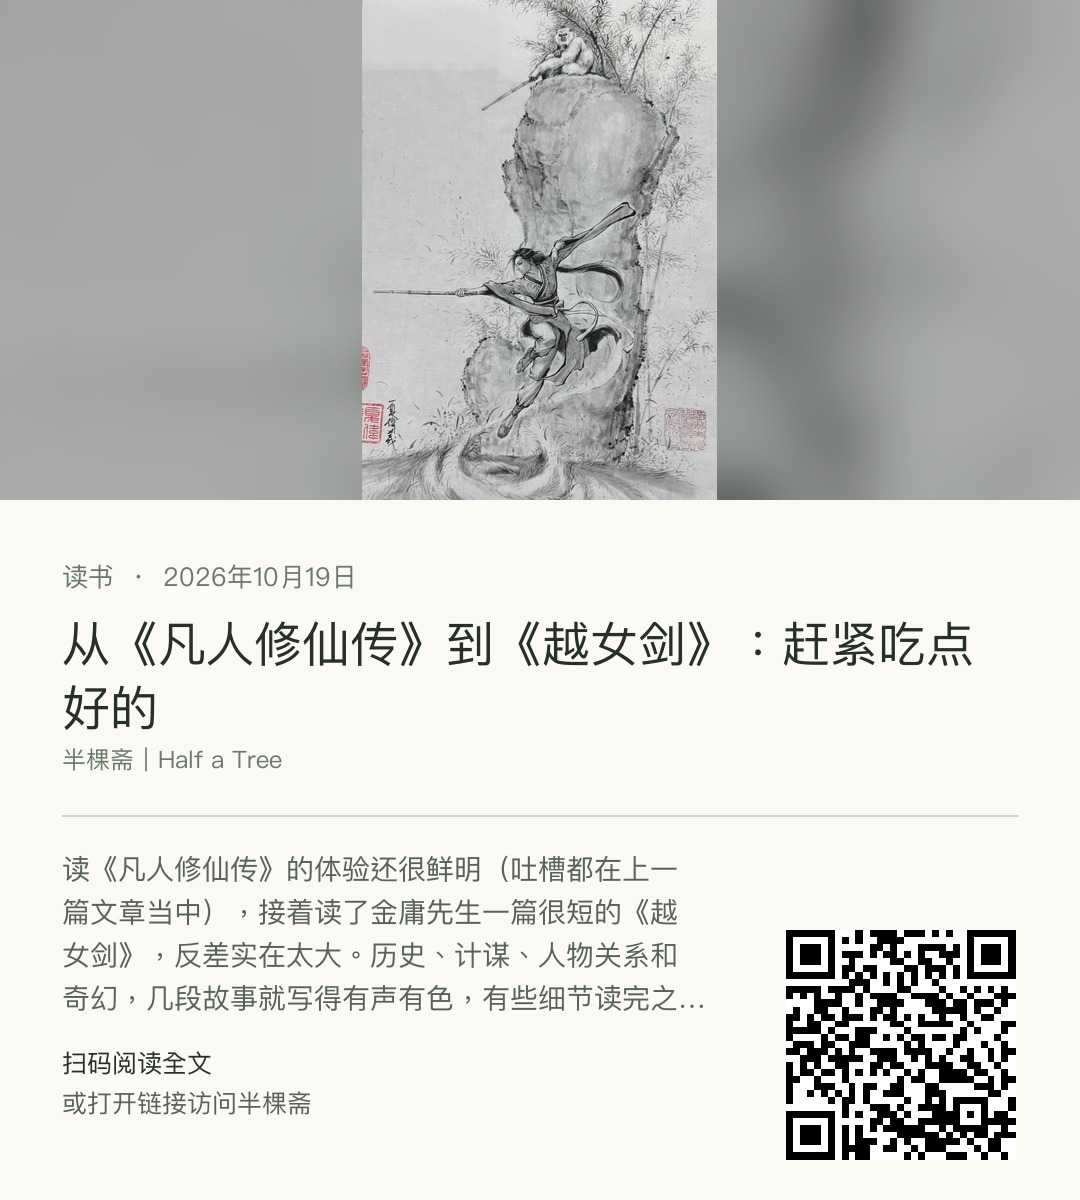
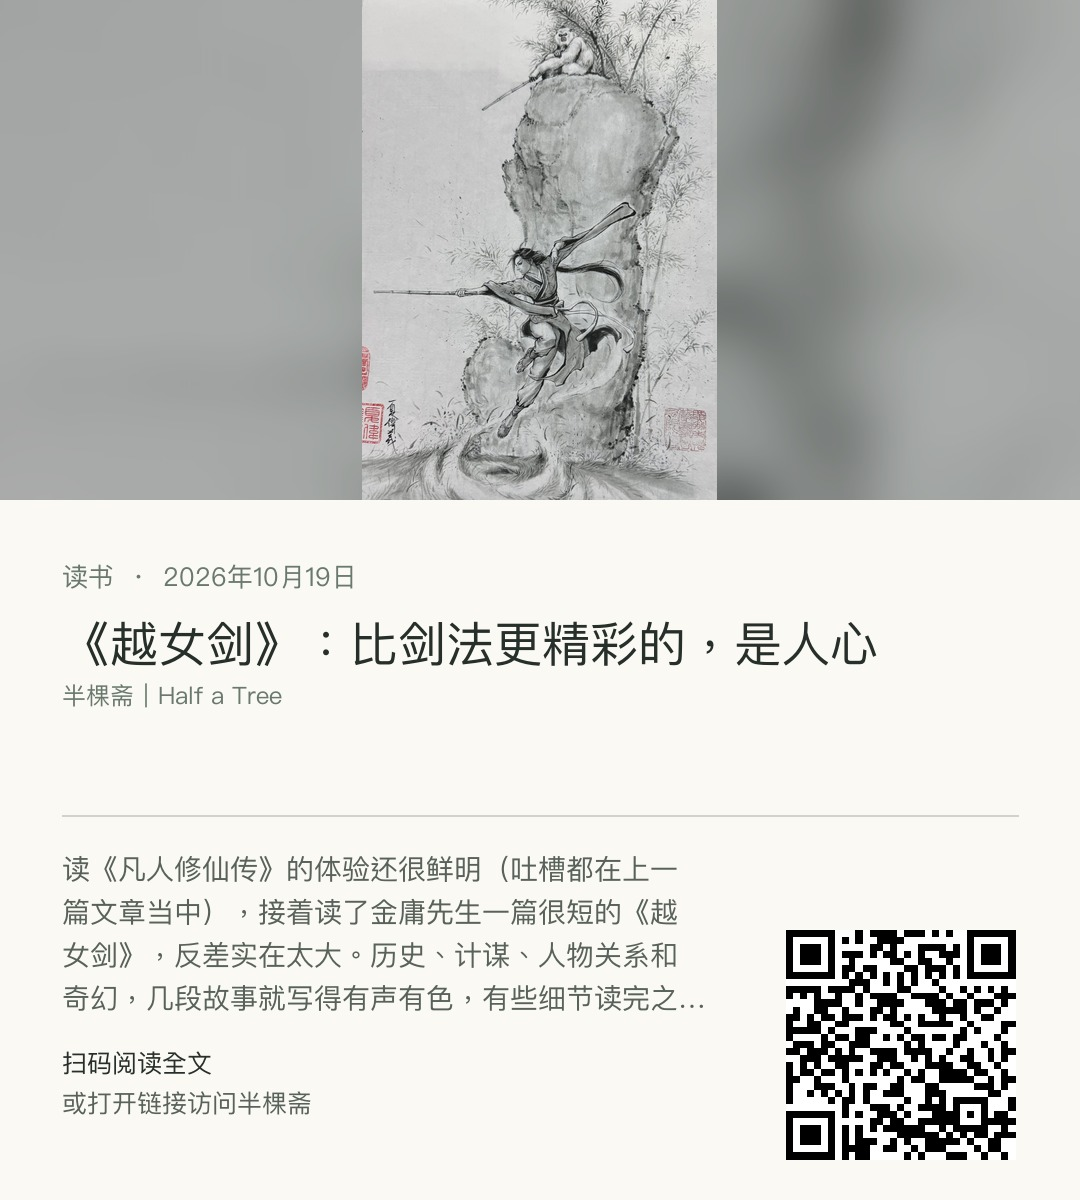
Update Yue Nu Jian article title

Changed region(s): [[0.0611, 0.4933, 0.9167, 0.6475], [0.1528, 0.6167, 0.275, 0.6475]]

diff --git a/articles/yue-nu-jian-review.html b/articles/yue-nu-jian-review.html
@@ -7,7 +7,7 @@
     <!-- 分享卡片元数据开始 -->
     <meta property="og:type" content="article" />
     <meta property="og:site_name" content="半棵斋｜Half a Tree" />
-    <meta property="og:title" content="从《凡人修仙传》到《越女剑》：赶紧吃点好的｜半棵斋" />
+    <meta property="og:title" content="《越女剑》：比剑法更精彩的，是人心｜半棵斋" />
     <meta property="og:description" content="读《凡人修仙传》的体验还很鲜明（吐槽都在上一篇文章当中），接着读了金庸先生一篇很短的《越女剑》，反差实在太大。历史、计谋、人物关系和奇幻，几段故事就写得有声有色，有些细节读完之后还会回头琢磨。金庸先生真是太会写了。" />
     <meta property="og:url" content="https://halfatree.page/articles/yue-nu-jian-review.html" />
     <meta property="og:image" content="https://halfatree.page/public/media/share/yue-nu-jian-review.jpg?v=pages-from-small-room-v3" />
@@ -15,12 +15,12 @@
     <meta property="og:image:width" content="1200" />
     <meta property="og:image:height" content="630" />
     <meta name="twitter:card" content="summary_large_image" />
-    <meta name="twitter:title" content="从《凡人修仙传》到《越女剑》：赶紧吃点好的｜半棵斋" />
+    <meta name="twitter:title" content="《越女剑》：比剑法更精彩的，是人心｜半棵斋" />
     <meta name="twitter:description" content="读《凡人修仙传》的体验还很鲜明（吐槽都在上一篇文章当中），接着读了金庸先生一篇很短的《越女剑》，反差实在太大。历史、计谋、人物关系和奇幻，几段故事就写得有声有色，有些细节读完之后还会回头琢磨。金庸先生真是太会写了。" />
     <meta name="twitter:image" content="https://halfatree.page/public/media/share/yue-nu-jian-review.jpg?v=pages-from-small-room-v3" />
     <!-- 分享卡片元数据结束 -->
     <link rel="canonical" href="https://halfatree.page/articles/yue-nu-jian-review.html" />
-    <title>从《凡人修仙传》到《越女剑》：赶紧吃点好的｜半棵斋</title>
+    <title>《越女剑》：比剑法更精彩的，是人心｜半棵斋</title>
     <link rel="alternate" type="application/rss+xml" title="半棵斋 RSS" href="../rss.xml" />
     <link rel="stylesheet" href="../styles.css?v=guide-layout-v1" />
   </head>
@@ -43,7 +43,7 @@
       <article>
         <header class="article-header">
           <p class="article-meta"><span class="date-label">发表于</span><time datetime="2026-10-19">2026年10月19日</time></p>
-          <h1 class="article-title">从《凡人修仙传》到《越女剑》：赶紧吃点好的</h1>
+          <h1 class="article-title">《越女剑》：比剑法更精彩的，是人心</h1>
           <div class="article-tags" aria-label="话题"><span># 读书</span></div>
         </header>
         <div class="article-body">

diff --git a/site-data.js b/site-data.js
@@ -2,7 +2,7 @@ window.sitePosts = [
   {
     id: "yue-nu-jian-review",
     url: "/articles/yue-nu-jian-review.html",
-    title: "从《凡人修仙传》到《越女剑》：赶紧吃点好的",
+    title: "《越女剑》：比剑法更精彩的，是人心",
     excerpt: "读《凡人修仙传》的体验还很鲜明（吐槽都在上一篇文章当中），接着读了金庸先生一篇很短的《越女剑》，反差实在太大。历史、计谋、人物关系和奇幻，几段故事就写得有声有色，有些细节读完之后还会回头琢磨。金庸先生真是太会写了。",
     date: "2026-10-19",
     topics: ["读书"],

diff --git a/content/posts/yue-nu-jian-review.md b/content/posts/yue-nu-jian-review.md
@@ -1,6 +1,6 @@
 <!-- BLOG_METADATA_START -->
 ## 文章信息（可以直接修改，发布时不会显示）
-标题：从《凡人修仙传》到《越女剑》：赶紧吃点好的
+标题：《越女剑》：比剑法更精彩的，是人心
 网址名：yue-nu-jian-review
 首次发表：2026-10-19
 更新于：
